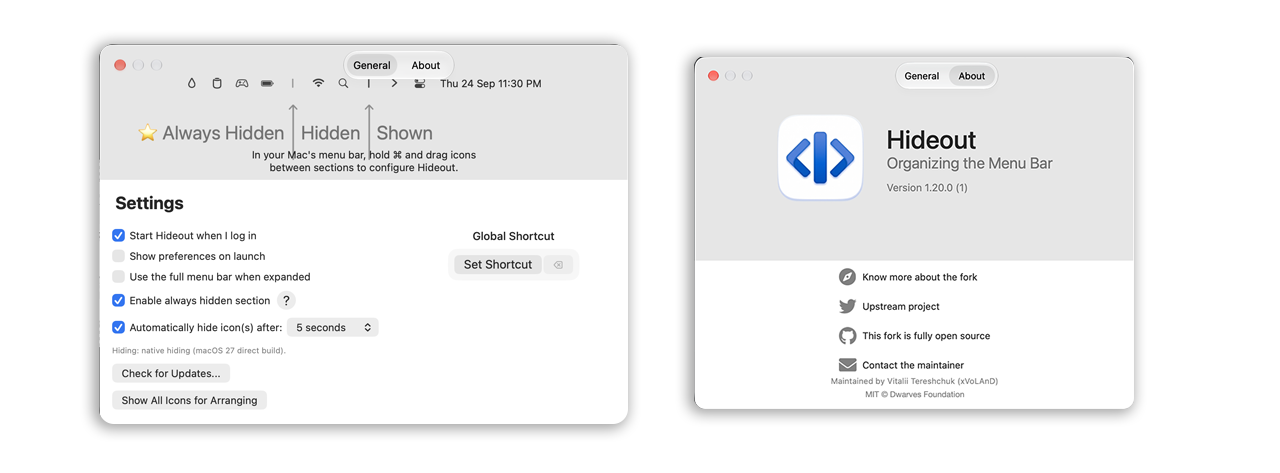
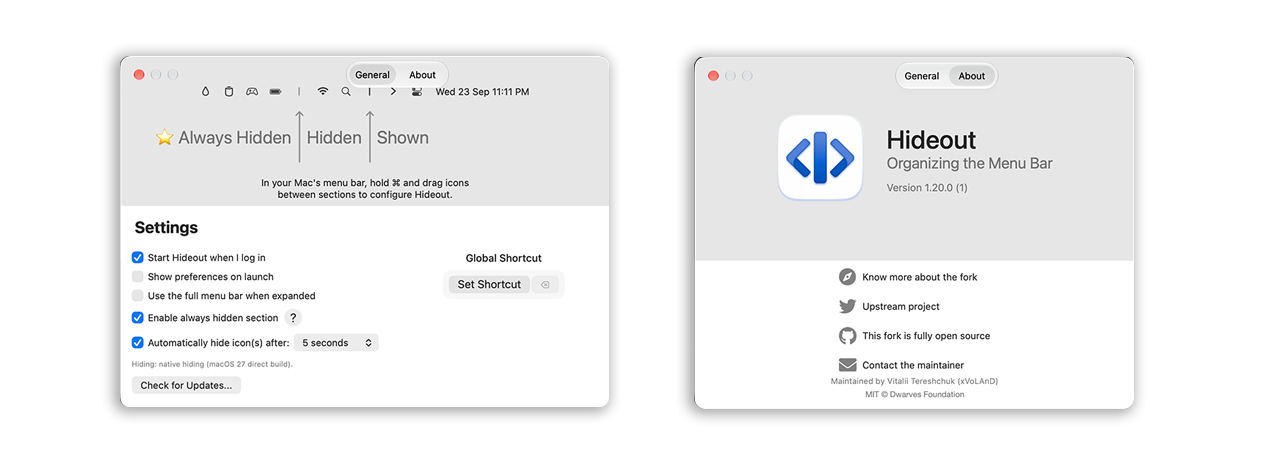
Revert to v1.21.3 state (revert v1.21.4-v1.21.6 changes)
Reverts 256ca29 (AH marker hidden outside arrange mode), 1e96b37 (marker transition logging), 3677ac9 (calibrating debounce guards), bbf5698 (fresh re-read on app-icon moves + diagRev 33), a62e5a8 (screen01.png update), and the v1.21.4-v1.21.6 CHANGELOG entries. Working tree verified byte-identical to tag v1.21.3. Published v1.21.4-v1.21.6 tags/releases are left untouched.

Changed region(s): [[0.0625, 0.0592, 0.5, 0.9175], [0.3438, 0.4736, 0.4375, 0.6216], [0.1562, 0.148, 0.2188, 0.2072]]

diff --git a/hidden/Features/StatusBar/Engine/Native/NativeVisibilityEngine.swift b/hidden/Features/StatusBar/Engine/Native/NativeVisibilityEngine.swift
@@ -234,9 +234,9 @@ final class NativeVisibilityEngine: MenuBarEngine {
     func expand() {
         stopNewcomerWatch()
         setSeparatorsVisible(true)
-        // In arrange mode the separator has full length: capture its frame for
-        // the next collapse so the always-hidden zone is read from a real
-        // position. In normal mode it stays hidden (see setSeparatorsVisible).
+        items?.alwaysHiddenItem?.isVisible = true
+        // The separator now has full length: capture its frame for the next
+        // collapse so the always-hidden zone is read from a real position.
         if alwaysHiddenEnabled,
            let ah = items?.alwaysHiddenItem,
            let frame = itemFrame(ah), frame.width > 0 {
@@ -251,13 +251,6 @@ final class NativeVisibilityEngine: MenuBarEngine {
         alwaysHiddenSeparatorHidden = separatorHidden
         if state != .collapsed {
             setSeparatorsVisible(true)
-        }
-        // Don't pile an async presentation refresh onto an in-flight
-        // calibration (rapid toggles): flags above are authoritative and the
-        // next expand/collapse converges visuals. Same guard as the arrow path.
-        if state == .calibrating {
-            AppLog.info("NativeVisibility: always-hidden update deferred — engine calibrating")
-            return
         }
         if state == .expanded {
             applyExpandedPresentation()
@@ -343,35 +336,6 @@ final class NativeVisibilityEngine: MenuBarEngine {
         return false
     }
 
-    // App icons move too — user drags, macOS reflows under a held restriction —
-    // and frozen sections would misclassify them forever (only separator moves
-    // triggered a re-read). Same contract: positive evidence only (a live
-    // position across a frozen boundary by more than the threshold), settle
-    // window honored, unreadable/absent frames mean "can't tell". Bundles the
-    // frozen layout doesn't know (newcomers, system items) belong to other
-    // logic — skip them. Real drags span hundreds of px; reflow stays within
-    // tens (same threshold as separators).
-    private func appsMovedSinceFreeze(census: [MenuBarInventoryItem]) -> Bool {
-        if let last = lastBarDisturbance, Date().timeIntervalSince(last) < Self.settleInterval {
-            return false
-        }
-        guard let frozen = layout, let sep = layoutSeparatorFrame else { return false }
-        let ltr = isLTR()
-        for item in census {
-            guard let bundle = item.bundleIdentifier,
-                  let frozenZone = frozen.sections[bundle] else { continue }
-            if frozenZone == .alwaysHidden, layoutAHFrame == nil { continue }
-            let liveZone = MenuBarLayoutResolver.section(of: item.frame, separatorFrame: sep, alwaysHiddenSeparatorFrame: layoutAHFrame, isLTR: ltr)
-            if liveZone == frozenZone { continue }
-            let near: [CGFloat] = [sep.midX] + (layoutAHFrame.map { [$0.midX] } ?? [])
-            if near.allSatisfy({ abs(item.frame.midX - $0) > Self.moveThreshold }) {
-                AppLog.info("NativeVisibility: \(bundle) moved across the frozen boundary — re-reading fresh")
-                return true
-            }
-        }
-        return false
-    }
-
     private func withLayout(_ body: @escaping (MenuBarLayout?, [MenuBarInventoryItem], CGFloat?) -> Void) {
         if assertion != nil, !separatorsMovedSinceFreeze() {
             // A restriction is already held (e.g. collapse from expanded with
@@ -384,14 +348,6 @@ final class NativeVisibilityEngine: MenuBarEngine {
             inventory.snapshot { [weak self] census in
                 guard let self = self, generation == self.generation else { return }
                 self.healAlwaysHiddenZone(with: census)
-                if self.appsMovedSinceFreeze(census: census) {
-                    // Fall through to a fresh census below instead of serving
-                    // stale sections (same path as separator moves).
-                    self.releaseAssertion()
-                    self.layout = nil
-                    self.withLayout(body)
-                    return
-                }
                 body(self.layout, census, nil)
             }
             return
@@ -426,10 +382,7 @@ final class NativeVisibilityEngine: MenuBarEngine {
             let boundary = self.cachedSeparatorFrame ?? arrowFrame
             // Refresh the cache only from a real-length frame; never from the
             // collapsed zero-length one, which would corrupt the always-hidden zone.
-            // A zero-width live frame (marker hidden) must not classify: fall
-            // back to the cache, else an empty zone.
-            let liveAHRaw: CGRect? = self.alwaysHiddenEnabled ? self.items?.alwaysHiddenItem.flatMap(self.itemFrame) : nil
-            let liveAHFrame: CGRect? = (liveAHRaw?.width ?? 0) > 0 ? liveAHRaw : nil
+            let liveAHFrame: CGRect? = self.alwaysHiddenEnabled ? self.items?.alwaysHiddenItem.flatMap(self.itemFrame) : nil
             if self.alwaysHiddenEnabled,
                let ah = self.items?.alwaysHiddenItem,
                ah.length > 0,
@@ -662,11 +615,10 @@ final class NativeVisibilityEngine: MenuBarEngine {
         }
     }
 
-    // The regular separator shows while expanded so it can be ⌘-dragged; the
-    // always-hidden one only in arrange mode (see below). While collapsed they
-    // hide (the regular one via isVisible, the always-hidden one via zero
-    // width — isVisible = false would make macOS forget where the user placed
-    // it, and its position defines the always-hidden zone).
+    // Both separators show while expanded so they can be ⌘-dragged; while
+    // collapsed they hide (the regular one via isVisible, the always-hidden one
+    // via zero width — isVisible = false would make macOS forget where the user
+    // placed it, and its position defines the always-hidden zone).
     private func setSeparatorsVisible(_ visible: Bool) {
         // Stamp only on an actual flip: the parked-while-hidden slot differs
         // from the shown one, so frames read within the settle window after a
@@ -675,17 +627,7 @@ final class NativeVisibilityEngine: MenuBarEngine {
             lastBarDisturbance = Date()
         }
         items?.separatorItem.isVisible = visible
-        // The always-hidden marker shows only in arrange mode (separators
-        // shown) — day-to-day bars stay clean, including while expanded.
-        // Length and visibility move together; the slot and the cached frame
-        // survive either way (collapse cycles prove it).
-        let showAHMarker = visible && alwaysHiddenEnabled && !alwaysHiddenSeparatorHidden
-        if let ahVisible = items?.alwaysHiddenItem?.isVisible, ahVisible != showAHMarker {
-            lastBarDisturbance = Date()
-        }
-        items?.alwaysHiddenItem?.length = showAHMarker ? expandedLength : 0
-        items?.alwaysHiddenItem?.isVisible = showAHMarker
-        AppLog.info("NativeVisibility: markers regular visible=\(items?.separatorItem.isVisible ?? false), AH visible=\(items?.alwaysHiddenItem?.isVisible ?? false) length=\(Int(items?.alwaysHiddenItem?.length ?? -1))")
+        items?.alwaysHiddenItem?.length = visible && alwaysHiddenEnabled ? expandedLength : 0
     }
 
     // Any arrangement works: whatever sits left of the separator is the hidden section.

diff --git a/hidden/Features/StatusBar/StatusBarController.swift b/hidden/Features/StatusBar/StatusBarController.swift
@@ -280,24 +280,12 @@ class StatusBarController: MenuBarItemProvider {
     // on modifier delivery.
     @objc private func revealForArranging() {
         AppLog.info("StatusBar: reveal requested — showing separators")
-        if menuBarEngine.state == .calibrating {
-            AppLog.info("StatusBar: reveal ignored — engine calibrating")
-            return
-        }
         if self.isCollapsed { self.expandMenubar() }
         self.showSeparators()
         AppLog.info("StatusBar: separators hidden=\(Preferences.areSeparatorsHidden)")
     }
 
     func showHideSeparatorsAndAlwayHideArea() {
-        // Never pile onto an in-flight calibration (rapid double toggles):
-        // the async census/activation behind it is already committed, and a
-        // second overlapping restriction session risks wedging the menu bar
-        // server with stale allow-lists. Same guard as the arrow path.
-        if menuBarEngine.state == .calibrating {
-            AppLog.info("StatusBar: separators toggle ignored — engine calibrating")
-            return
-        }
         // Expand first: the hide guard below reads live separator geometry,
         // which is only trustworthy while expanded (collapsed items report
         // degenerate frames). Toggling first would silently no-op from a
@@ -552,12 +540,7 @@ extension StatusBarController {
                 }
                 self.btnAlwaysHidden?.autosaveName = "hideout_terminate" + StatusBarController.autosaveSuffix
             }
-            // Marker visibility follows arrange mode (the engine owns length
-            // from here on via updateAlwaysHiddenSection below); sync both now
-            // so enabling while collapsed can't leave a visible marker behind.
-            let showAHMarker = !Preferences.areSeparatorsHidden && !self.isCollapsed
-            self.btnAlwaysHidden?.isVisible = showAHMarker
-            self.btnAlwaysHidden?.length = showAHMarker ? 20 : 0
+            self.btnAlwaysHidden?.isVisible = true
             // The zone only holds while expanded when separators are hidden;
             // without this one-time enforcement the feature silently does
             // nothing for anyone who never Option-clicked. Later explicit

diff --git a/hidden/Features/StatusBar/Engine/MenuBarEngine.swift b/hidden/Features/StatusBar/Engine/MenuBarEngine.swift
@@ -78,5 +78,5 @@ enum AppLog {
 // Identifies the exact code behind a log line: MARKETING_VERSION only moves
 // on tags, so this is bumped on every diagnostics-visibility change.
 enum BuildInfo {
-    static let diagnosticsRevision = 33
+    static let diagnosticsRevision = 30
 }

diff --git a/CHANGELOG.md b/CHANGELOG.md
@@ -1,42 +1,5 @@
 # Changelog
 
-## v1.21.6 (2026-09-24)
-
-Requires macOS 13 Ventura or later. (Pre-Ventura users: stay on
-[v1.10](https://github.com/dwarvesf/hidden/releases/tag/v1.10).)
-
-### Fixed
-- Collapse re-reads fresh when app icons moved since the frozen layout.
-  Frozen sections previously ignored icon drags and reflows (only separator
-  moves triggered a re-read), so a held-path collapse could misclassify moved
-  icons indefinitely. Same safety contract: positive evidence only, settle
-  window honored, newcomers skipped (diagnostics `diagRev=33`).
-
-## v1.21.5 (2026-09-24)
-
-Requires macOS 13 Ventura or later. (Pre-Ventura users: stay on
-[v1.10](https://github.com/dwarvesf/hidden/releases/tag/v1.10).)
-
-### Fixed
-- Rapid double-toggles no longer pile overlapping restriction sessions onto an
-  in-flight calibration. The separators toggle, the reveal action, and the
-  always-hidden section update now ignore presses while the engine is
-  calibrating (with a log line), mirroring the existing arrow-press guard —
-  flags stay authoritative and visuals converge on the next expand/collapse
-  (diagnostics `diagRev=32`).
-
-## v1.21.4 (2026-09-24)
-
-Requires macOS 13 Ventura or later. (Pre-Ventura users: stay on
-[v1.10](https://github.com/dwarvesf/hidden/releases/tag/v1.10).)
-
-### Changed
-- The always-hidden zone's `|` marker now stays hidden in day-to-day use
-  (including while expanded) and appears only in arrange mode (Option-click
-  or Preferences → Show All Icons for Arranging). Length and visibility move
-  together so the slot and the cached frame survive; the zone census ignores
-  a zero-width live frame and falls back to the cache (diagnostics `diagRev=31`).
-
 ## v1.21.3 (2026-09-24)
 
 Requires macOS 13 Ventura or later. (Pre-Ventura users: stay on

diff --git a/docs/MANUAL.md b/docs/MANUAL.md
@@ -25,7 +25,7 @@ Everything Hidden Bar can do, including the parts with no UI.
 | Show preferences on launch | Open this window at app start |
 | Auto collapse | Re-hide automatically after the chosen delay |
 | Global shortcut | System-wide expand/collapse hotkey (F-keys display as F18, not Fn18) |
-| Enable always hidden section | A second zone whose icons stay hidden even when expanded; revealed by option-clicking the arrow. Its `|` marker stays hidden in day-to-day use and appears only while arranging (same trigger) |
+| Enable always hidden section | A second zone whose icons stay hidden even when expanded; revealed by option-clicking the arrow |
 | Use full menu bar on expanding | App becomes briefly "regular" while expanded (helps on tight menubars) |
 
 
